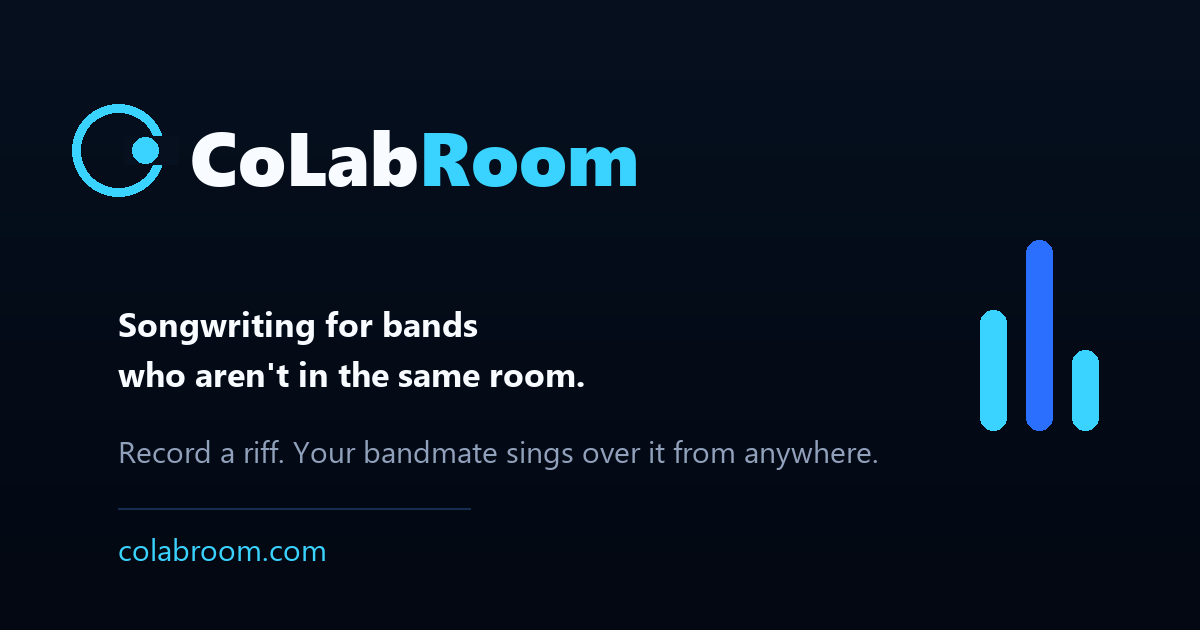
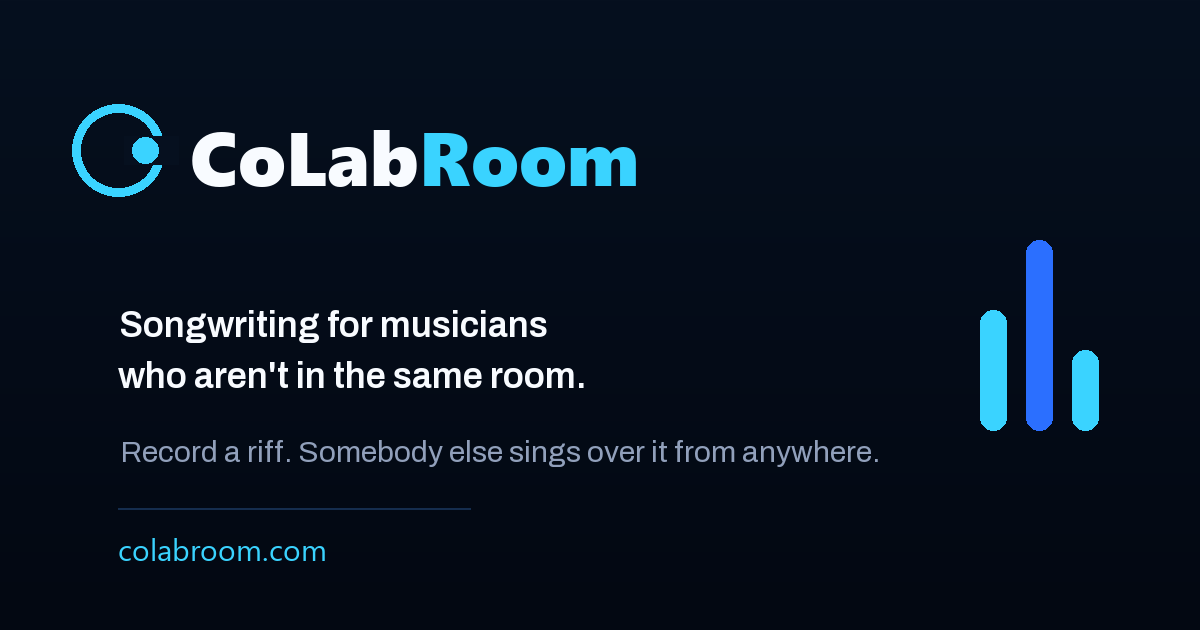
Songwriting for musicians
"For bands" is a membership requirement, not a description. It says you
have to already be in one — and the app has a whole feature for meeting
musicians you have not met.

The tagline everywhere: footers, the index kicker, and every og and
twitter card on ten pages. Plus the four lines that stated the same
requirement in passing — the search description that opened "Your
bandmate sings over it", the takes description, the chord tool's "lets
your band play on it", and "How a band uses it", which points at a page
about rooms.

share.png had it baked in, which made it the most-seen copy on the site
and the one place a find-and-replace could not reach. It is what every
shared link renders as in iMessage, Discord and Slack.
tools/rewrite_share_image.py repaints the rows the old text sat on and
draws the new text back — possible because the background is a pure
vertical gradient, so a row restores exactly from its own colour at
x=20. Both tagline lines are re-rendered even though the second did not
change: a font one notch off is invisible next to a logo and glaring
between two lines of one sentence. Size and weight were fitted against
the unchanged line until the width matched the existing pixels to within
half a percent.

"Band" stays where it describes a real situation: the terms on owning a
room other people are in, and the Open Mic page drawing the contrast
between a room and the street.

Changed region(s): [[0.0925, 0.6937, 0.74, 0.754], [0.0925, 0.4825, 0.4625, 0.5429], [0.0925, 0.573, 0.4933, 0.6333]]

diff --git a/index.html b/index.html
@@ -4,9 +4,9 @@
 <meta charset="utf-8">
 <meta name="viewport" content="width=device-width, initial-scale=1">
 <title>CoLabRoom</title>
-<meta name="description" content="Record a riff. Your bandmate sings over it from anywhere. CoLabRoom keeps the takes and the words in one place, then listens back and writes down what you played.">
+<meta name="description" content="Record a riff. Somebody else sings over it from anywhere. CoLabRoom keeps the takes and the words in one place, then listens back and writes down what you played.">
 <meta property="og:title" content="CoLabRoom">
-<meta property="og:description" content="Play it. Pass it on. Songwriting for bands who aren't in the same room.">
+<meta property="og:description" content="Play it. Pass it on. Songwriting for musicians who aren't in the same room.">
 <meta property="og:type" content="website">
 <link rel="preconnect" href="https://fonts.googleapis.com">
 <link rel="preconnect" href="https://fonts.gstatic.com" crossorigin>
@@ -18,10 +18,10 @@
   <meta property="og:image" content="https://colabroom.com/share.png">
   <meta property="og:image:width" content="1200">
   <meta property="og:image:height" content="630">
-  <meta property="og:image:alt" content="CoLabRoom — songwriting for bands who aren't in the same room.">
+  <meta property="og:image:alt" content="CoLabRoom — songwriting for musicians who aren't in the same room.">
   <meta name="twitter:card" content="summary_large_image">
   <meta name="twitter:title" content="CoLabRoom">
-  <meta name="twitter:description" content="Play it. Pass it on. Songwriting for bands who aren't in the same room.">
+  <meta name="twitter:description" content="Play it. Pass it on. Songwriting for musicians who aren't in the same room.">
   <meta name="twitter:image" content="https://colabroom.com/share.png">
   <meta name="theme-color" content="#06101F">
 </head>
@@ -46,7 +46,7 @@
   </header>
 
   <div class="hero">
-    <p class="kicker">Songwriting for bands</p>
+    <p class="kicker">Songwriting for musicians</p>
     <h1>Play it.<br>Pass it on.</h1>
     <p>Record a riff tonight. Wake up to a vocal on it.</p>
     <!-- The one thing on this site anybody can use right now.
@@ -169,7 +169,7 @@
     <p class="lede">
       Nobody has to be free at the same time. That's the whole idea.
     </p>
-    <a class="more" href="bands.html">How a band uses it →</a>
+    <a class="more" href="bands.html">How a room works →</a>
   </section>
 
   <section class="moment reveal">
@@ -264,7 +264,7 @@
   </nav>
 
   <footer>
-    <span>CoLabRoom — songwriting for bands</span>
+    <span>CoLabRoom — songwriting for musicians</span>
     <span class="sp"></span>
     <a href="#beta">Account deletion</a>
     <a href="privacy.html">Privacy</a>

diff --git a/takes.html b/takes.html
@@ -4,9 +4,9 @@
 <meta charset="utf-8">
 <meta name="viewport" content="width=device-width, initial-scale=1">
 <title>Takes — CoLabRoom</title>
-<meta name="description" content="Record over what is already there. Your band adds parts from wherever they are, nobody's playing gets overwritten, and everyone can mute anything without changing what the others hear.">
+<meta name="description" content="Record over what is already there. Other people add parts from wherever they are, nobody's playing gets overwritten, and everyone can mute anything without changing what the others hear.">
 <meta property="og:title" content="Takes — CoLabRoom">
-<meta property="og:description" content="Everybody plays on it. Songwriting for bands who aren't in the same room.">
+<meta property="og:description" content="Everybody plays on it. Songwriting for musicians who aren't in the same room.">
 <meta property="og:type" content="website">
 <link rel="preconnect" href="https://fonts.googleapis.com">
 <link rel="preconnect" href="https://fonts.gstatic.com" crossorigin>
@@ -18,10 +18,10 @@
   <meta property="og:image" content="https://colabroom.com/share.png">
   <meta property="og:image:width" content="1200">
   <meta property="og:image:height" content="630">
-  <meta property="og:image:alt" content="CoLabRoom — songwriting for bands who aren't in the same room.">
+  <meta property="og:image:alt" content="CoLabRoom — songwriting for musicians who aren't in the same room.">
   <meta name="twitter:card" content="summary_large_image">
   <meta name="twitter:title" content="Takes — CoLabRoom">
-  <meta name="twitter:description" content="Everybody plays on it. Songwriting for bands who aren't in the same room.">
+  <meta name="twitter:description" content="Everybody plays on it. Songwriting for musicians who aren't in the same room.">
   <meta name="twitter:image" content="https://colabroom.com/share.png">
   <meta name="theme-color" content="#06101F">
 </head>
@@ -157,7 +157,7 @@
   </nav>
 
   <footer>
-    <span>CoLabRoom — songwriting for bands</span>
+    <span>CoLabRoom — songwriting for musicians</span>
     <span class="sp"></span>
     <a href="index.html#beta">Account deletion</a>
     <a href="privacy.html">Privacy</a>

diff --git a/openmic.html b/openmic.html
@@ -6,7 +6,7 @@
 <title>The Open Mic — CoLabRoom</title>
 <meta name="description" content="Find a musician, or be found by one. Nothing is public until you say so, nobody is ranked, and the fastest way through is hearing somebody play.">
 <meta property="og:title" content="The Open Mic — CoLabRoom">
-<meta property="og:description" content="Meet somebody you have not met. Songwriting for bands who aren't in the same room.">
+<meta property="og:description" content="Meet somebody you have not met. Songwriting for musicians who aren't in the same room.">
 <meta property="og:type" content="website">
 <link rel="preconnect" href="https://fonts.googleapis.com">
 <link rel="preconnect" href="https://fonts.gstatic.com" crossorigin>
@@ -18,10 +18,10 @@
   <meta property="og:image" content="https://colabroom.com/share.png">
   <meta property="og:image:width" content="1200">
   <meta property="og:image:height" content="630">
-  <meta property="og:image:alt" content="CoLabRoom — songwriting for bands who aren't in the same room.">
+  <meta property="og:image:alt" content="CoLabRoom — songwriting for musicians who aren't in the same room.">
   <meta name="twitter:card" content="summary_large_image">
   <meta name="twitter:title" content="The Open Mic — CoLabRoom">
-  <meta name="twitter:description" content="Meet somebody you have not met. Songwriting for bands who aren't in the same room.">
+  <meta name="twitter:description" content="Meet somebody you have not met. Songwriting for musicians who aren't in the same room.">
   <meta name="twitter:image" content="https://colabroom.com/share.png">
   <meta name="theme-color" content="#06101F">
 </head>
@@ -149,7 +149,7 @@
   </nav>
 
   <footer>
-    <span>CoLabRoom — songwriting for bands</span>
+    <span>CoLabRoom — songwriting for musicians</span>
     <span class="sp"></span>
     <a href="index.html#beta">Account deletion</a>
     <a href="privacy.html">Privacy</a>

diff --git a/bands.html b/bands.html
@@ -6,7 +6,7 @@
 <title>Your room — CoLabRoom</title>
 <meta name="description" content="A private room for each band or project, invitations by email, setlists you can print, and a record of who wrote and played what.">
 <meta property="og:title" content="Your room — CoLabRoom">
-<meta property="og:description" content="Open it and see what happened. Songwriting for bands who aren't in the same room.">
+<meta property="og:description" content="Open it and see what happened. Songwriting for musicians who aren't in the same room.">
 <meta property="og:type" content="website">
 <link rel="preconnect" href="https://fonts.googleapis.com">
 <link rel="preconnect" href="https://fonts.gstatic.com" crossorigin>
@@ -18,10 +18,10 @@
   <meta property="og:image" content="https://colabroom.com/share.png">
   <meta property="og:image:width" content="1200">
   <meta property="og:image:height" content="630">
-  <meta property="og:image:alt" content="CoLabRoom — songwriting for bands who aren't in the same room.">
+  <meta property="og:image:alt" content="CoLabRoom — songwriting for musicians who aren't in the same room.">
   <meta name="twitter:card" content="summary_large_image">
   <meta name="twitter:title" content="Your room — CoLabRoom">
-  <meta name="twitter:description" content="Open it and see what happened. Songwriting for bands who aren't in the same room.">
+  <meta name="twitter:description" content="Open it and see what happened. Songwriting for musicians who aren't in the same room.">
   <meta name="twitter:image" content="https://colabroom.com/share.png">
   <meta name="theme-color" content="#06101F">
 </head>
@@ -133,7 +133,7 @@
   </nav>
 
   <footer>
-    <span>CoLabRoom — songwriting for bands</span>
+    <span>CoLabRoom — songwriting for musicians</span>
     <span class="sp"></span>
     <a href="index.html#beta">Account deletion</a>
     <a href="privacy.html">Privacy</a>

diff --git a/chords.html b/chords.html
@@ -18,7 +18,7 @@
   <meta property="og:image" content="https://colabroom.com/share.png">
   <meta property="og:image:width" content="1200">
   <meta property="og:image:height" content="630">
-  <meta property="og:image:alt" content="CoLabRoom — songwriting for bands who aren't in the same room.">
+  <meta property="og:image:alt" content="CoLabRoom — songwriting for musicians who aren't in the same room.">
   <meta name="twitter:card" content="summary_large_image">
   <meta name="twitter:title" content="What chords is this? — CoLabRoom">
   <meta name="twitter:description" content="Drop in a recording and get the chords back. No account. Your audio is never stored.">
@@ -83,7 +83,7 @@
       <p class="gate-lead">That is your free songs for today.</p>
       <p class="gate-sub">
         The app has no daily limit — and it keeps the chords with the song,
-        puts them over the words, and lets your band play on it.
+        puts them over the words, and lets other people play on it.
       </p>
       <div class="gate-actions">
         <a class="cta" href="mailto:beta@colabroom.com?subject=CoLabRoom%20beta&amp;body=I%20used%20the%20chord%20tool%20and%20would%20like%20the%20app.">Get the app</a>
@@ -140,13 +140,13 @@
       </a>
       <a class="onward" href="index.html">
         <span class="where">CoLabRoom</span>
-        <span class="what">Songwriting for bands who aren't in the same room.</span>
+        <span class="what">Songwriting for musicians who aren't in the same room.</span>
       </a>
     </div>
   </nav>
 
   <footer>
-    <span>CoLabRoom — songwriting for bands</span>
+    <span>CoLabRoom — songwriting for musicians</span>
     <span class="sp"></span>
     <a href="privacy.html">Privacy</a>
     <a href="terms.html">Terms</a>

diff --git a/analysis.html b/analysis.html
@@ -18,7 +18,7 @@
   <meta property="og:image" content="https://colabroom.com/share.png">
   <meta property="og:image:width" content="1200">
   <meta property="og:image:height" content="630">
-  <meta property="og:image:alt" content="CoLabRoom — songwriting for bands who aren't in the same room.">
+  <meta property="og:image:alt" content="CoLabRoom — songwriting for musicians who aren't in the same room.">
   <meta name="twitter:card" content="summary_large_image">
   <meta name="twitter:title" content="What it heard — CoLabRoom">
   <meta name="twitter:description" content="It listens back and writes it down.">
@@ -81,7 +81,7 @@
     <h2>Where the chorus starts.</h2>
     <p class="lede">
       Verse, chorus, bridge — named the way you'd say them out loud. Rename
-      any part to whatever your band calls it.
+      any part to whatever you call it.
     </p>
     <div class="art" aria-hidden="true">
       <div class="form">
@@ -149,7 +149,7 @@
   </nav>
 
   <footer>
-    <span>CoLabRoom — songwriting for bands</span>
+    <span>CoLabRoom — songwriting for musicians</span>
     <span class="sp"></span>
     <a href="index.html#beta">Account deletion</a>
     <a href="privacy.html">Privacy</a>

diff --git a/songbook.html b/songbook.html
@@ -18,7 +18,7 @@
   <meta property="og:image" content="https://colabroom.com/share.png">
   <meta property="og:image:width" content="1200">
   <meta property="og:image:height" content="630">
-  <meta property="og:image:alt" content="CoLabRoom — songwriting for bands who aren't in the same room.">
+  <meta property="og:image:alt" content="CoLabRoom — songwriting for musicians who aren't in the same room.">
   <meta name="twitter:card" content="summary_large_image">
   <meta name="twitter:title" content="The song sheet — CoLabRoom">
   <meta name="twitter:description" content="A page, not a form. Where the words and the chords live.">
@@ -173,7 +173,7 @@
   </nav>
 
   <footer>
-    <span>CoLabRoom — songwriting for bands</span>
+    <span>CoLabRoom — songwriting for musicians</span>
     <span class="sp"></span>
     <a href="index.html#beta">Account deletion</a>
     <a href="privacy.html">Privacy</a>

diff --git a/copyright.html b/copyright.html
@@ -171,7 +171,7 @@
   <meta property="og:image" content="https://colabroom.com/share.png">
   <meta property="og:image:width" content="1200">
   <meta property="og:image:height" content="630">
-  <meta property="og:image:alt" content="CoLabRoom — songwriting for bands who aren't in the same room.">
+  <meta property="og:image:alt" content="CoLabRoom — songwriting for musicians who aren't in the same room.">
   <meta name="twitter:card" content="summary_large_image">
   <meta name="twitter:title" content="CoLabRoom Copyright &amp;amp; Takedown">
   <meta name="twitter:description" content="How to report copyright infringement on CoLabRoom, what a notice must contain, and how to answer one.">

diff --git a/privacy.html b/privacy.html
@@ -171,7 +171,7 @@
   <meta property="og:image" content="https://colabroom.com/share.png">
   <meta property="og:image:width" content="1200">
   <meta property="og:image:height" content="630">
-  <meta property="og:image:alt" content="CoLabRoom — songwriting for bands who aren't in the same room.">
+  <meta property="og:image:alt" content="CoLabRoom — songwriting for musicians who aren't in the same room.">
   <meta name="twitter:card" content="summary_large_image">
   <meta name="twitter:title" content="CoLabRoom Privacy Policy">
   <meta name="twitter:description" content="What CoLabRoom collects, who it's shared with, and how to delete it.">

diff --git a/terms.html b/terms.html
@@ -136,7 +136,7 @@
   <meta property="og:image" content="https://colabroom.com/share.png">
   <meta property="og:image:width" content="1200">
   <meta property="og:image:height" content="630">
-  <meta property="og:image:alt" content="CoLabRoom — songwriting for bands who aren't in the same room.">
+  <meta property="og:image:alt" content="CoLabRoom — songwriting for musicians who aren't in the same room.">
   <meta name="twitter:card" content="summary_large_image">
   <meta name="twitter:title" content="CoLabRoom Terms of Service">
   <meta name="twitter:description" content="The terms for using CoLabRoom's beta.">

diff --git a/tools/rewrite_share_image.py b/tools/rewrite_share_image.py
@@ -1,0 +1,70 @@
+# -*- coding: utf-8 -*-
+"""Put new words on share.png without rebuilding the picture.
+
+share.png is what every shared colabroom.com link renders as — in iMessage,
+Discord, Slack, on every social post. It had the old tagline baked into it,
+which made it the most-seen copy on the site and the one place a find-and-
+replace could not reach.
+
+**Why it edits rather than regenerates.** The original was made by hand and
+committed; there is no source file. Redrawing the logo, the gradient and the
+waveform from scratch to change two sentences would risk a worse image than
+the one we have, to no purpose. So this repaints only the rows the old text
+sat on and draws the new text back.
+
+That works because the background is a pure vertical gradient — every row is
+one flat colour, verified across the width — so a row can be restored exactly
+by sampling its own colour at x=20, where nothing is ever drawn.
+
+Both tagline lines are re-rendered even though the second one did not change.
+A font that is one notch off is invisible next to a logo and glaring between
+two lines of the same sentence.
+
+Font size and weight were not guessed: they were fitted by rendering the
+unchanged line at every plausible combination and keeping the one whose width
+matched the pixels already in the file to within half a percent.
+
+    python tools/rewrite_share_image.py path/to/Archivo[wght,wdth].ttf
+"""
+import sys
+from PIL import Image, ImageDraw, ImageFont
+
+FONT = sys.argv[1] if len(sys.argv) > 1 else 'archivo.ttf'
+
+TEXT = '#F8FBFF'
+MUTED = '#91A0BB'
+
+# (text, weight, size, left edge, top of the ink) — the last two measured off
+# the original so the new words land exactly where the old ones were.
+LINES = [
+    ('Songwriting for musicians',      600, 36, 119, 310, TEXT),
+    ("who aren't in the same room.",   600, 36, 118, 361, TEXT),
+    ('Record a riff. Somebody else sings over it from anywhere.',
+                                       400, 30, 120, 440, MUTED),
+]
+
+# Rows to clear before drawing. Generous, and clear of the divider at y=508.
+BANDS = [(300, 400), (430, 480)]
+X0, X1 = 110, 960
+
+
+def main():
+    im = Image.open('share.png').convert('RGB')
+    px = im.load()
+    draw = ImageDraw.Draw(im)
+
+    for top, bottom in BANDS:
+        for y in range(top, bottom + 1):
+            draw.rectangle([X0, y, X1, y], fill=px[20, y])
+
+    for text, weight, size, left, ink_top, colour in LINES:
+        font = ImageFont.truetype(FONT, size)
+        font.set_variation_by_axes([float(weight), 100.0])
+        box = font.getbbox(text)
+        draw.text((left - box[0], ink_top - box[1]), text, font=font, fill=colour)
+
+    im.save('share.png')
+    print('share.png rewritten')
+
+
+main()
